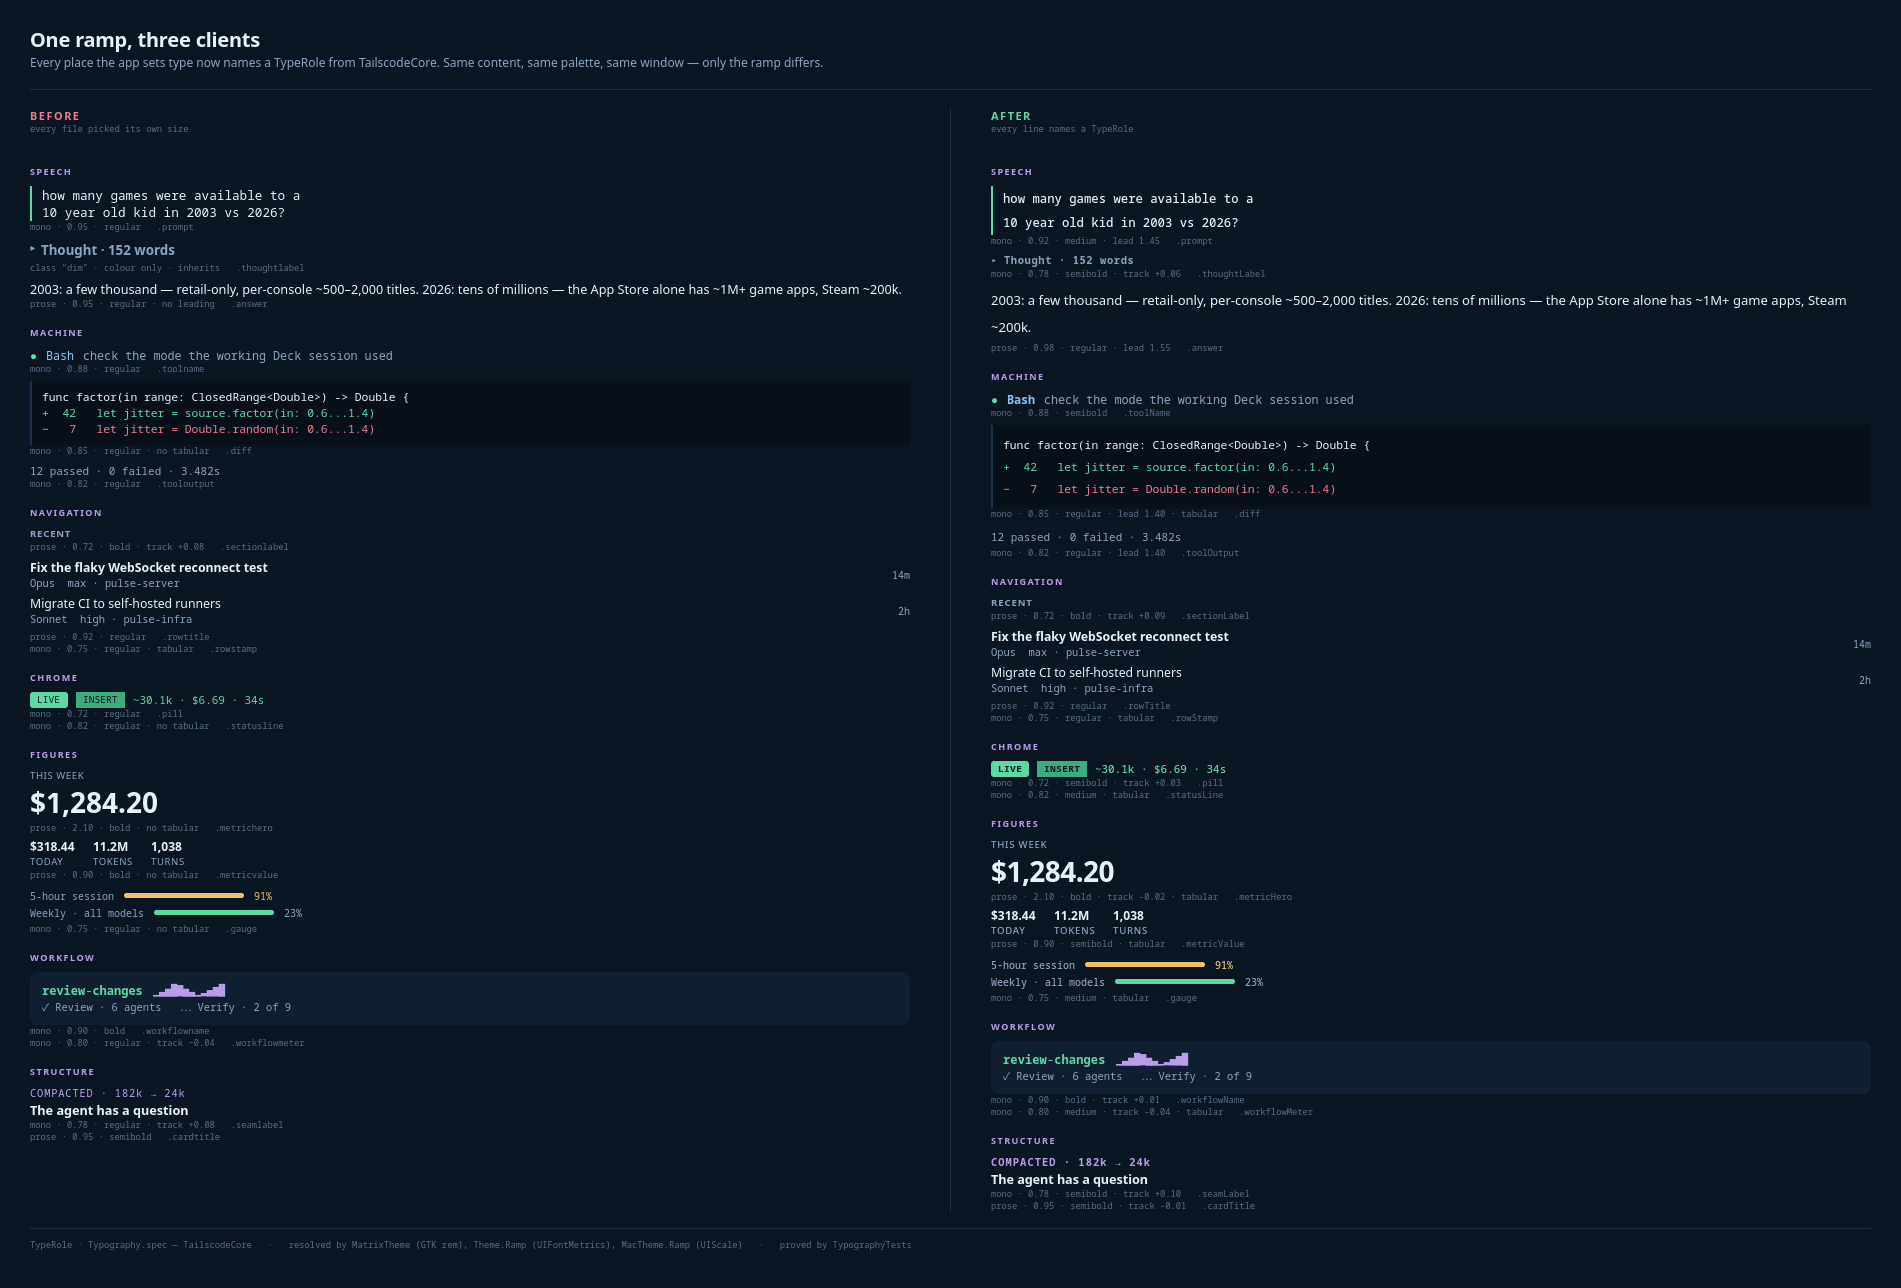
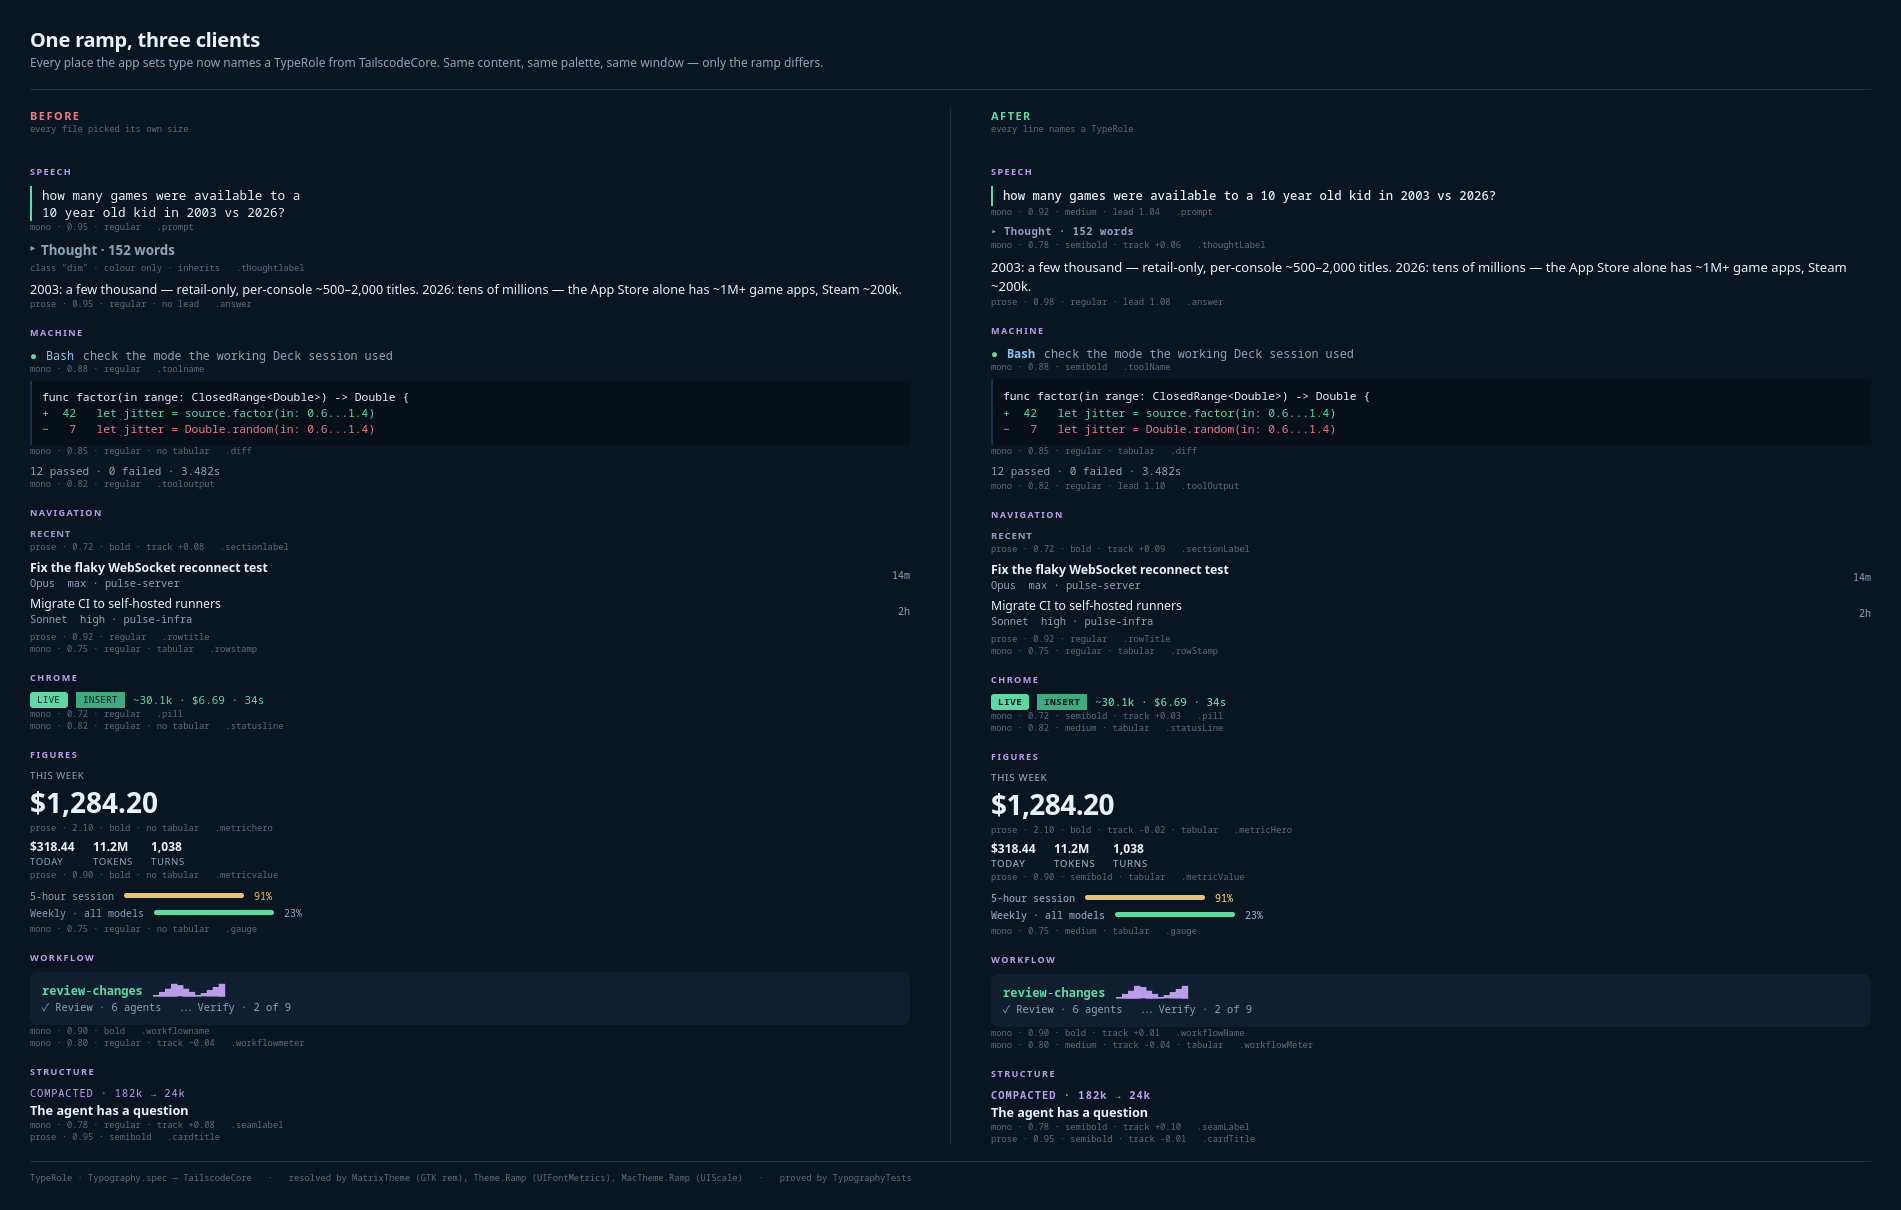
fix(type): leading is a multiple of the face's own, and a chevron is not a label
Two things the ramp got wrong on the desk it ships to first.

Leading. GTK's line-height, and AppKit's and UIKit's lineHeightMultiple, all
multiply the face's OWN line height — which already leads itself by about a
third of the point size — not the size. Read as CSS, 1.55 on the answer came
out at 2.1x the size, so every paragraph and every stacked row wore a blank
line it never asked for. The numbers now mean what the toolkits do: just above
1 where a passage wants air, exactly 1 where a row is one line by construction
(a diff line no longer leads at all), and the test band is 1.2 rather than 1.8
so the misreading cannot come back.

The chevron. Every disclosure row led with an ellipsis: its glyph label is one
character with ellipsize END, and the tracking it inherited from thoughtLabel
pushed the run past the width it was measured at, so Pango replaced the mark
with the truncation. A chevron is a drawing, not a small label — it takes the
untracked note role and reads as the arrow it is.

diff --git a/TailscodeCore/Sources/TailscodeCore/Typography.swift b/TailscodeCore/Sources/TailscodeCore/Typography.swift
@@ -74,8 +74,11 @@ public struct TypeSpec: Sendable, Equatable {
     /// Letter spacing in ems. Positive opens a small tracked label; negative tightens a display
     /// number, which is the only place tightening is ever an improvement.
     public let tracking: Double
-    /// Line height as a multiple of the size. `1` means the face's own leading, which is right for
-    /// anything that is one line by construction.
+    /// Line height as a multiple of **the face's own leading**, which is what every toolkit here
+    /// actually multiplies (GTK's `line-height`, AppKit and UIKit's `lineHeightMultiple`) — never a
+    /// multiple of the point size. A face already leads itself by about a third of its size, so the
+    /// numbers that buy a paragraph air live just above 1, and 1 itself — the face left alone — is
+    /// right for anything that is one line by construction.
     public let lineHeight: Double
     public let figures: TypeFigures
     public let italic: Bool
@@ -201,14 +204,14 @@ public enum Typography {
         switch role {
         case .prompt:
             return TypeSpec(
-                axis: .prose, family: .canvas, ratio: 0.92, weight: .medium, lineHeight: 1.45)
+                axis: .prose, family: .canvas, ratio: 0.92, weight: .medium, lineHeight: 1.04)
         case .promptGlyph:
             return TypeSpec(axis: .prose, family: .canvas, ratio: 0.92, weight: .bold)
         case .answer:
-            return TypeSpec(axis: .prose, family: .prose, ratio: 0.98, lineHeight: 1.55)
+            return TypeSpec(axis: .prose, family: .prose, ratio: 0.98, lineHeight: 1.08)
         case .thought:
             return TypeSpec(
-                axis: .prose, family: .prose, ratio: 0.9, lineHeight: 1.5, italic: true)
+                axis: .prose, family: .prose, ratio: 0.9, lineHeight: 1.06, italic: true)
         case .thoughtLabel:
             return TypeSpec(
                 axis: .mono, family: .mono, ratio: 0.78, weight: .semibold, tracking: 0.06)
@@ -226,9 +229,9 @@ public enum Typography {
         case .toolDetail:
             return TypeSpec(axis: .mono, family: .mono, ratio: 0.88)
         case .toolOutput:
-            return TypeSpec(axis: .mono, family: .mono, ratio: 0.82, lineHeight: 1.4)
+            return TypeSpec(axis: .mono, family: .mono, ratio: 0.82, lineHeight: 1.1)
         case .code:
-            return TypeSpec(axis: .mono, family: .mono, ratio: 0.85, lineHeight: 1.45)
+            return TypeSpec(axis: .mono, family: .mono, ratio: 0.85, lineHeight: 1.15)
         case .codeLabel:
             return TypeSpec(
                 axis: .mono, family: .mono, ratio: 0.75, weight: .medium, tracking: 0.06)
@@ -236,7 +239,7 @@ public enum Typography {
             return TypeSpec(axis: .mono, family: .mono, ratio: 0.75, weight: .medium)
         case .diff:
             return TypeSpec(
-                axis: .mono, family: .mono, ratio: 0.85, lineHeight: 1.4, figures: .tabular)
+                axis: .mono, family: .mono, ratio: 0.85, figures: .tabular)
         case .attachment:
             return TypeSpec(axis: .mono, family: .mono, ratio: 0.88, weight: .medium)
         case .treeRow:
@@ -251,14 +254,14 @@ public enum Typography {
             return TypeSpec(
                 axis: .prose, family: .prose, ratio: 0.95, weight: .semibold, tracking: -0.005)
         case .cardBody:
-            return TypeSpec(axis: .prose, family: .prose, ratio: 0.9, lineHeight: 1.5)
+            return TypeSpec(axis: .prose, family: .prose, ratio: 0.9, lineHeight: 1.06)
         case .option:
             return TypeSpec(axis: .mono, family: .mono, ratio: 0.88, weight: .medium)
         case .seamLabel:
             return TypeSpec(
                 axis: .prose, family: .mono, ratio: 0.78, weight: .semibold, tracking: 0.1)
         case .seamFootnote:
-            return TypeSpec(axis: .prose, family: .prose, ratio: 0.82, lineHeight: 1.4)
+            return TypeSpec(axis: .prose, family: .prose, ratio: 0.82, lineHeight: 1.05)
         case .paneHeadline:
             return TypeSpec(
                 axis: .prose, family: .mono, ratio: 1.1, weight: .bold, tracking: 0.04)
@@ -314,7 +317,7 @@ public enum Typography {
         case .chip:
             return TypeSpec(axis: .mono, family: .mono, ratio: 0.78, weight: .medium)
         case .composer:
-            return TypeSpec(axis: .prose, family: .canvas, ratio: 0.95, lineHeight: 1.4)
+            return TypeSpec(axis: .prose, family: .canvas, ratio: 0.95, lineHeight: 1.05)
         case .banner:
             return TypeSpec(axis: .mono, family: .mono, ratio: 0.85, weight: .medium)
         case .note:
@@ -346,7 +349,7 @@ public enum Typography {
             return TypeSpec(
                 axis: .mono, family: .mono, ratio: 0.9, weight: .bold, tracking: 0.01)
         case .workflowSummary:
-            return TypeSpec(axis: .prose, family: .prose, ratio: 0.85, lineHeight: 1.45)
+            return TypeSpec(axis: .prose, family: .prose, ratio: 0.85, lineHeight: 1.06)
         case .workflowMeter:
             return TypeSpec(
                 axis: .mono, family: .mono, ratio: 0.8, weight: .medium, tracking: -0.04,

diff --git a/TailscodeCore/Tests/TailscodeCoreTests/TypographyTests.swift b/TailscodeCore/Tests/TailscodeCoreTests/TypographyTests.swift
@@ -51,7 +51,7 @@ import Testing
             let spec = Typography.spec(role)
             #expect(spec.ratio >= 0.6 && spec.ratio <= 2.5, "\(role.rawValue) is off the ramp")
             #expect(spec.tracking >= -0.05 && spec.tracking <= 0.12, "\(role.rawValue) is spaced out")
-            #expect(spec.lineHeight >= 1 && spec.lineHeight <= 1.8, "\(role.rawValue) leads badly")
+            #expect(spec.lineHeight >= 1 && spec.lineHeight <= 1.2, "\(role.rawValue) leads badly")
         }
     }
 

diff --git a/TailscodeLinux/Sources/TailscodeLinux/MatrixTheme.swift b/TailscodeLinux/Sources/TailscodeLinux/MatrixTheme.swift
@@ -373,7 +373,7 @@ enum MatrixTheme {
         .reasoning-body { color: \(textDim); \(t(.thought)) }
         .disclosure { padding: 0; min-height: 0; }
         .disclosure:hover { background-color: \(canvasRaised); }
-        .disclosure-chevron { color: \(textDim); \(t(.thoughtLabel)) }
+        .disclosure-chevron { color: \(textDim); \(t(.note)) }
         .reasoning-label { color: \(textDim); \(t(.thoughtLabel)) }
         .disclosure:hover .disclosure-chevron { color: \(accent); }
 
